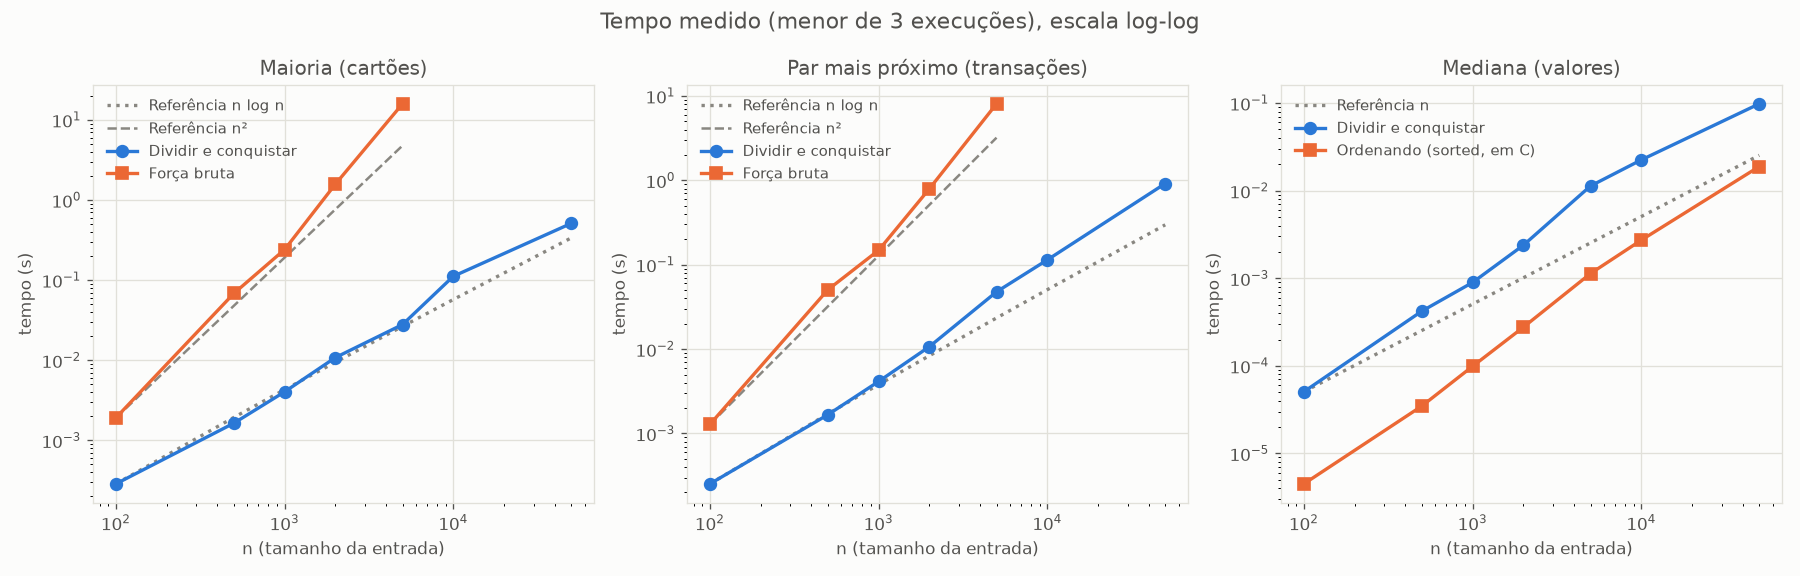
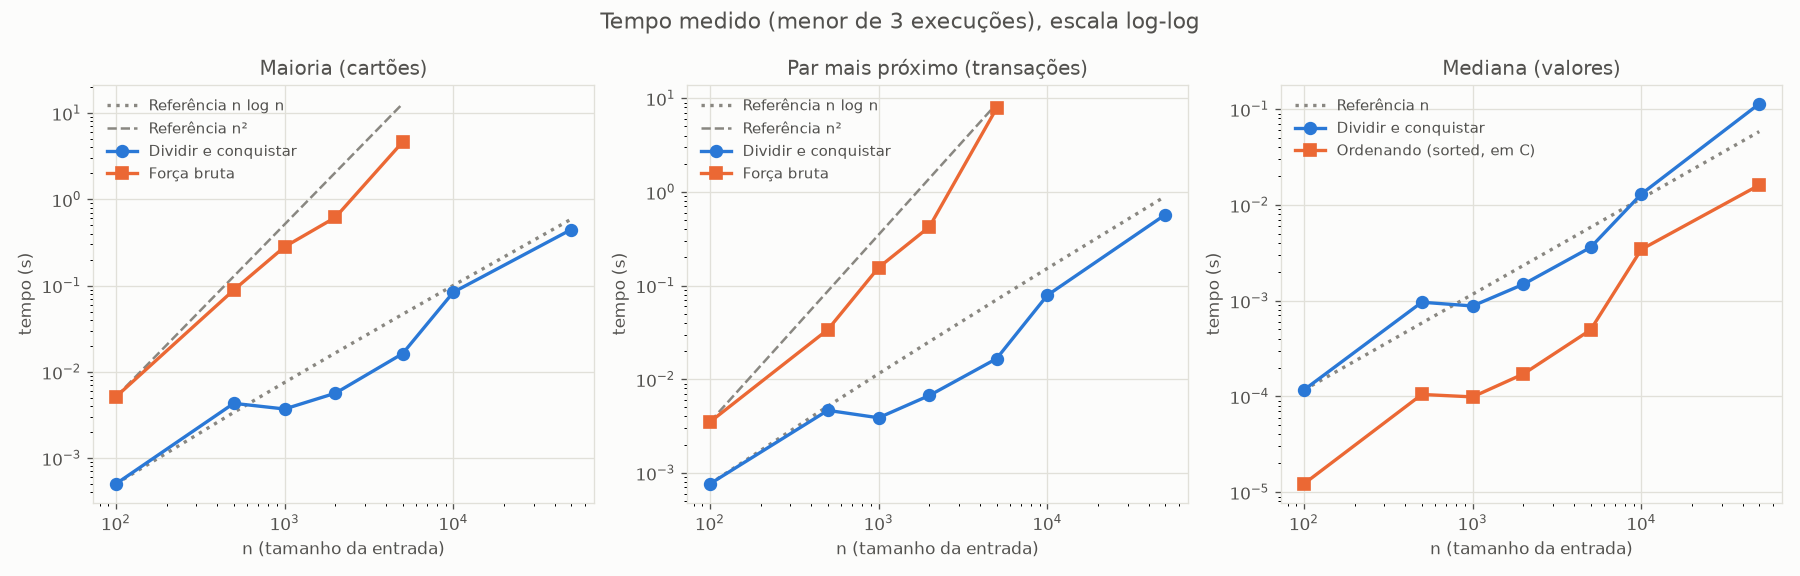
docs: link do vídeo de apresentação

diff --git a/README.md b/README.md
@@ -11,6 +11,10 @@ Projeto da disciplina de Projeto e Análise de Algoritmos (Trabalho 3: Dividir e
 | André Ricardo Meyer de Melo | 231011097 |
 | Giovanni Dornelas Ferreira  | 232002664 |
 
+## Vídeo de apresentação
+
+Apresentação do trabalho : [https://youtu.be/ZZwrOSH4X4Q]
+
 ## Problema
 
 Um banco abriu uma investigação e tem dois conjuntos de dados: os **cartões apreendidos** com um suspeito e as **transações de um dia** de uma maquininha. O sistema responde três perguntas, cada uma com um algoritmo:
@@ -311,14 +315,3 @@ python src/benchmark.py
 ```bash
 python -m pytest -q
 ```
-
-## Checklist final
-
-- [x] Dependências declaradas em `requirements.txt`
-- [x] `python -m pytest -q` passa
-- [x] `python src/main.py` roda do zero
-- [x] `python src/benchmark.py` gera o CSV e o gráfico
-- [x] README com estratégia, recorrência, tempo e espaço dos três algoritmos
-- [x] README com entrada, saída, exemplo real, resultados experimentais e conclusão
-- [ ] Vídeo publicado e referenciado no README
-- [ ] Repositório público
